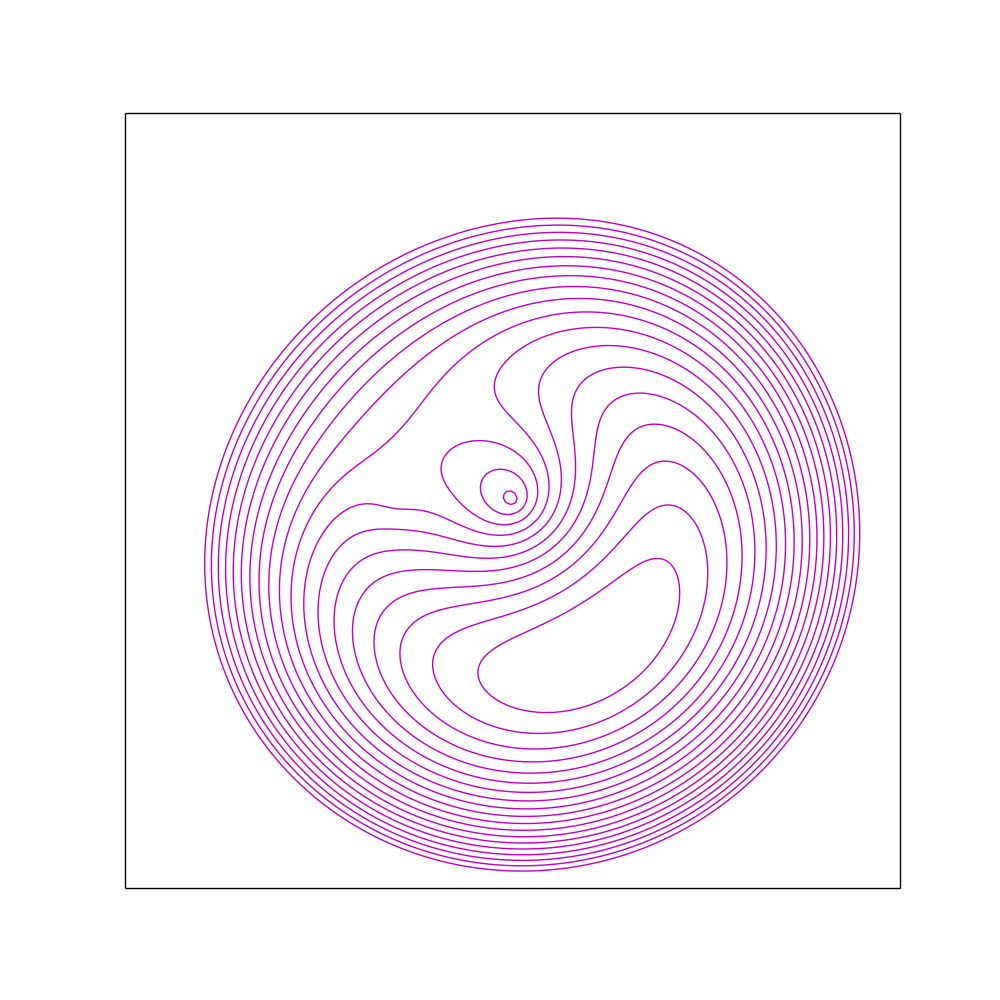
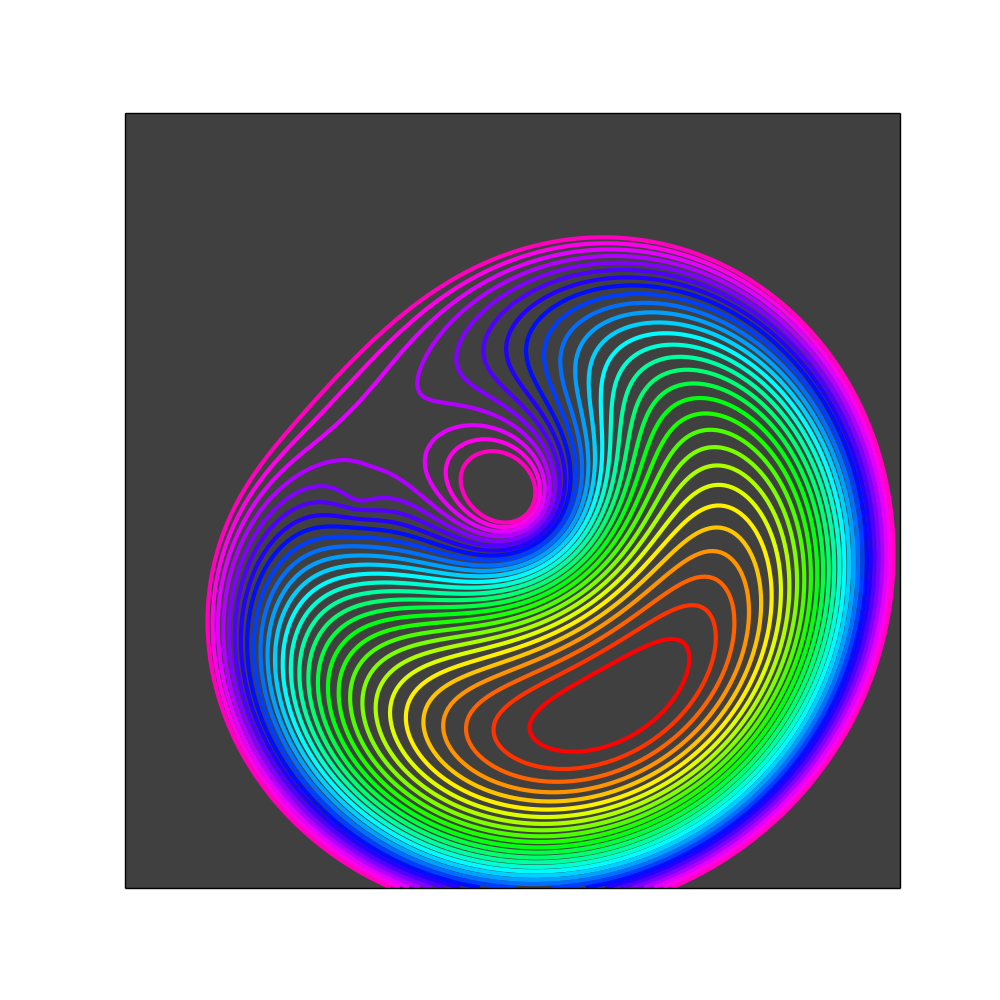
cleanup

diff --git a/text/ms.tex b/text/ms.tex
@@ -634,9 +634,9 @@ models in some detail.
 \begin{figure}
   \includegraphics[width=\myplotswidth]{fig/006975_input}
   \includegraphics[width=\myplotswidth]{fig/006975_arr_time} \\
-  \includegraphics[width=\myplotswidth]{fig/ASW000195x_arriv}
+  \includegraphics[width=\myplotswidth]{fig/ASW000195x_arriv.png}
   \includegraphics[width=\myplotswidth]{fig/006975_spaghetti} \\
-  \includegraphics[width=\myplotswidth]{fig/ASW000195x_kappa}
+  \includegraphics[width=\myplotswidth]{fig/ASW000195x_kappa.png}
   \includegraphics[width=\myplotswidth]{fig/006975_mass}
 
   \caption[result 6975 (ASW000195x)]{A model for a sim with some mass

diff --git a/plots/gen_plots.py b/plots/gen_plots.py
@@ -67,7 +67,7 @@ from numpy import pi
 import matplotlib as mpl
 
 
-debug = True
+debug = False
 # set to false to do a dry run in /plots/[outdir]
 write_to_tex_folder = False
 
@@ -817,7 +817,7 @@ def draw_sim(asw, sim):
     
     pc = panel.contour(x_cut,y_cut, 2.5*np.log10(kappa_cut+eps), n_contours, colors='0.9' )
     
-    panel.clabel(pc, inline=1, fontsize=10)
+    #panel.clabel(pc, inline=1, fontsize=10)
     panel.pcolormesh(x_cm, y_cm, np.log10(kappa_cut+eps), vmin=np.log10(eps), vmax=np.log10(np.amax(kappa_cut)), edgecolors="None", cmap='bone', shading="flat")
     
     panel.tick_params(
